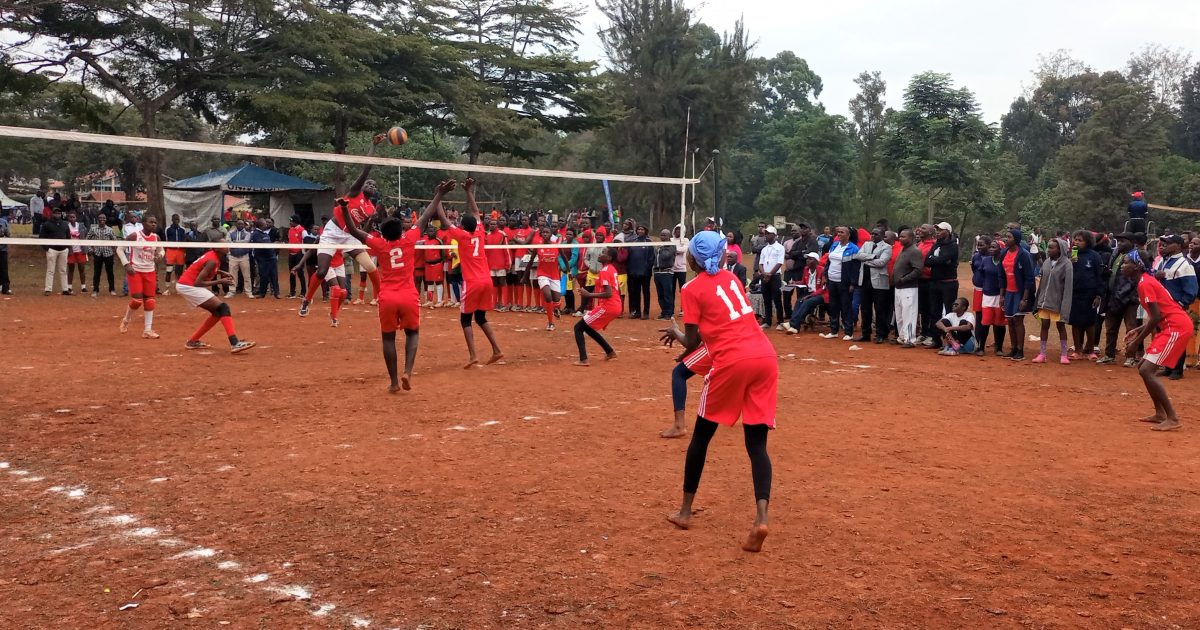
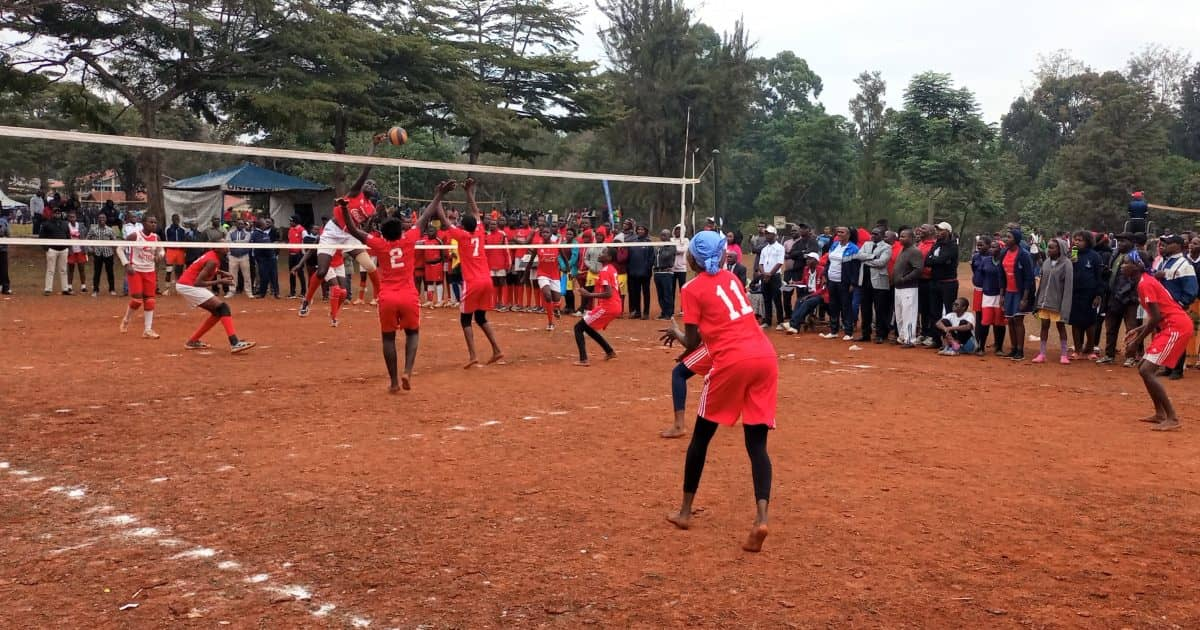
Images: optimized the images and updated the css to use the latest auth image which is smaller in size.

diff --git a/resources/css/_App.scss b/resources/css/_App.scss
@@ -1,7 +1,7 @@
 $aside_width: 15%;
 
 .app_main {
-    background: linear-gradient(rgba(0, 0, 0, 0.85), rgba(0, 0, 0, 0.85)), url('../../public/assets/images/auth.png');
+    background: linear-gradient(rgba(0, 0, 0, 0.85), rgba(0, 0, 0, 0.85)), url('../../public/assets/images/auth.jpg');
     background-size: cover;
     background-position: center;
     background-repeat: no-repeat;
